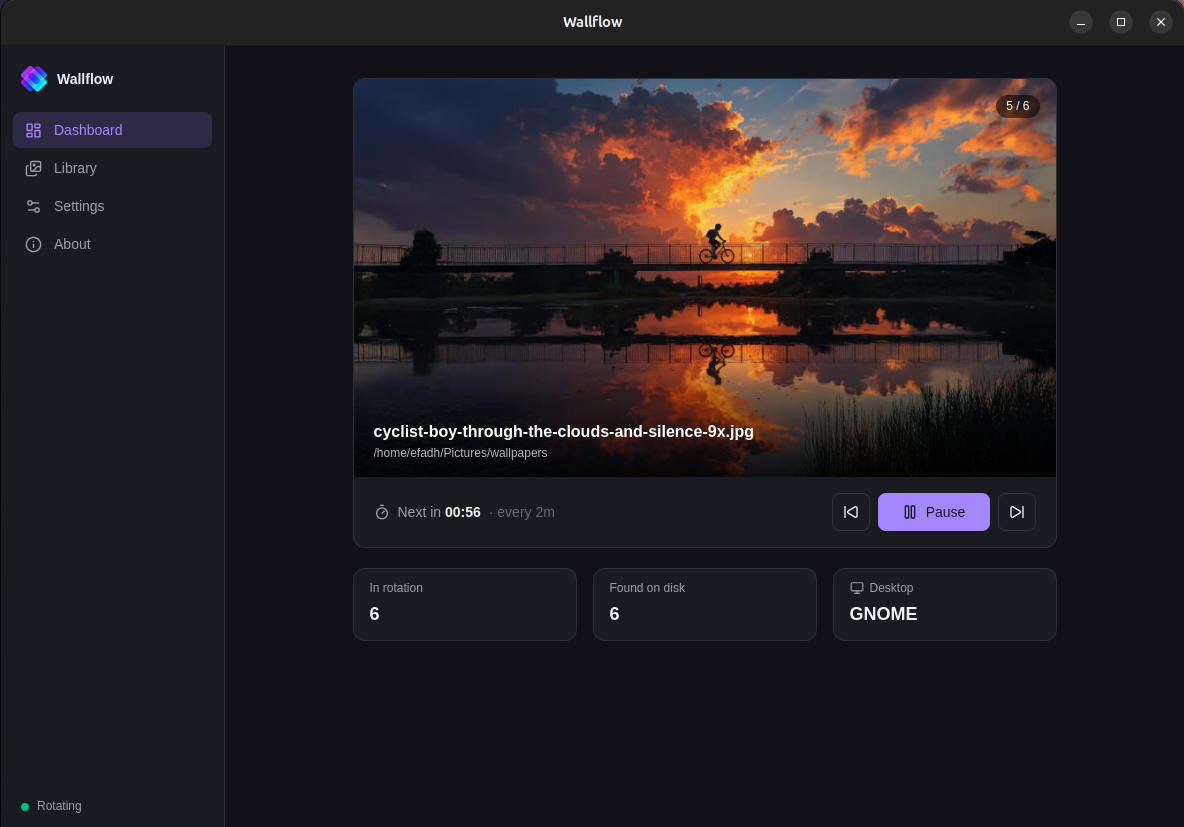
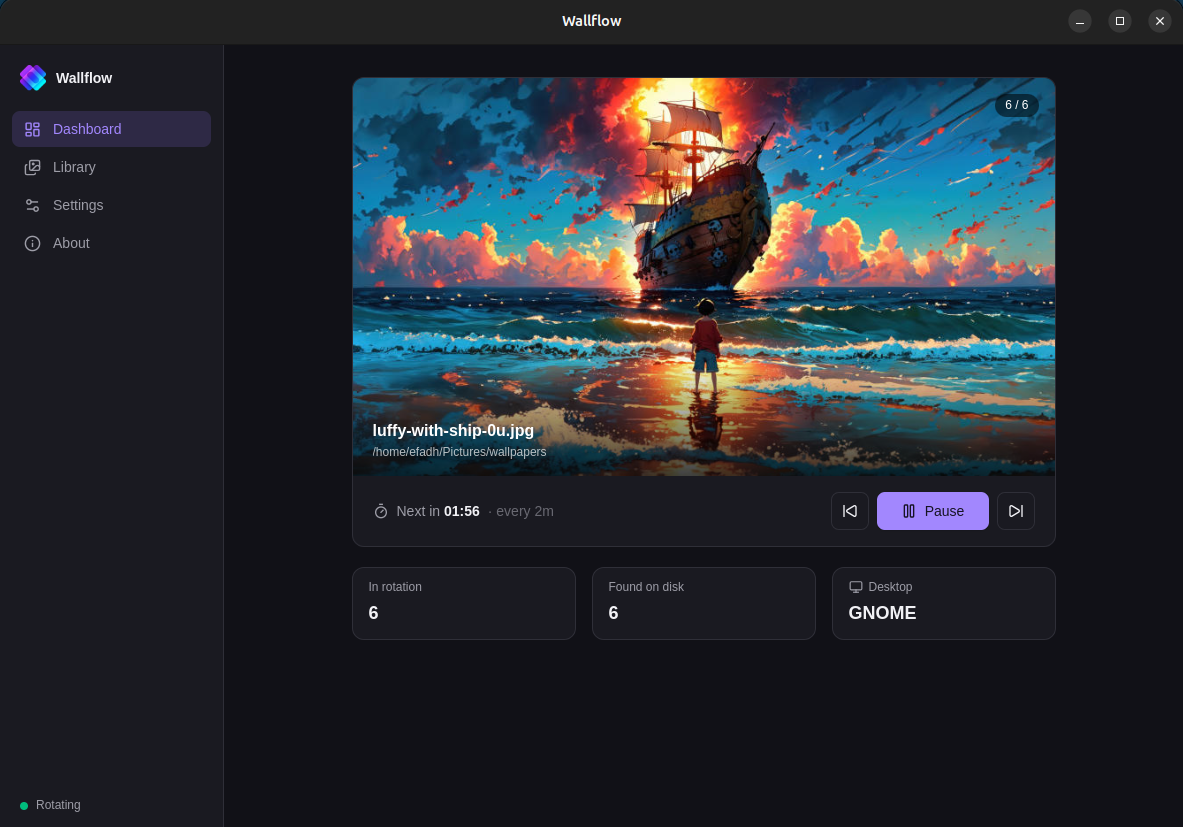
feat: update hero image and replace placeholder screenshot
- Replaced the placeholder hero image with a new screenshot of the Wallflow dashboard.
- Updated the image source and alt text for better clarity and representation of the application.

diff --git a/website/index.html b/website/index.html
@@ -59,12 +59,11 @@
           </div>
           <figure class="hero-shot">
             <img
-              src="assets/screenshots/hero.png"
-              alt="Placeholder screenshot of the Wallflow dashboard"
+              src="assets/screenshots/dashboard.png"
+              alt="Wallflow Dashboard showing the current wallpaper, countdown to the next change, and Previous, Pause, Next controls"
               width="1280"
               height="800"
             />
-            <figcaption>Replace this image with a real screenshot of the app.</figcaption>
           </figure>
         </div>
       </section>
